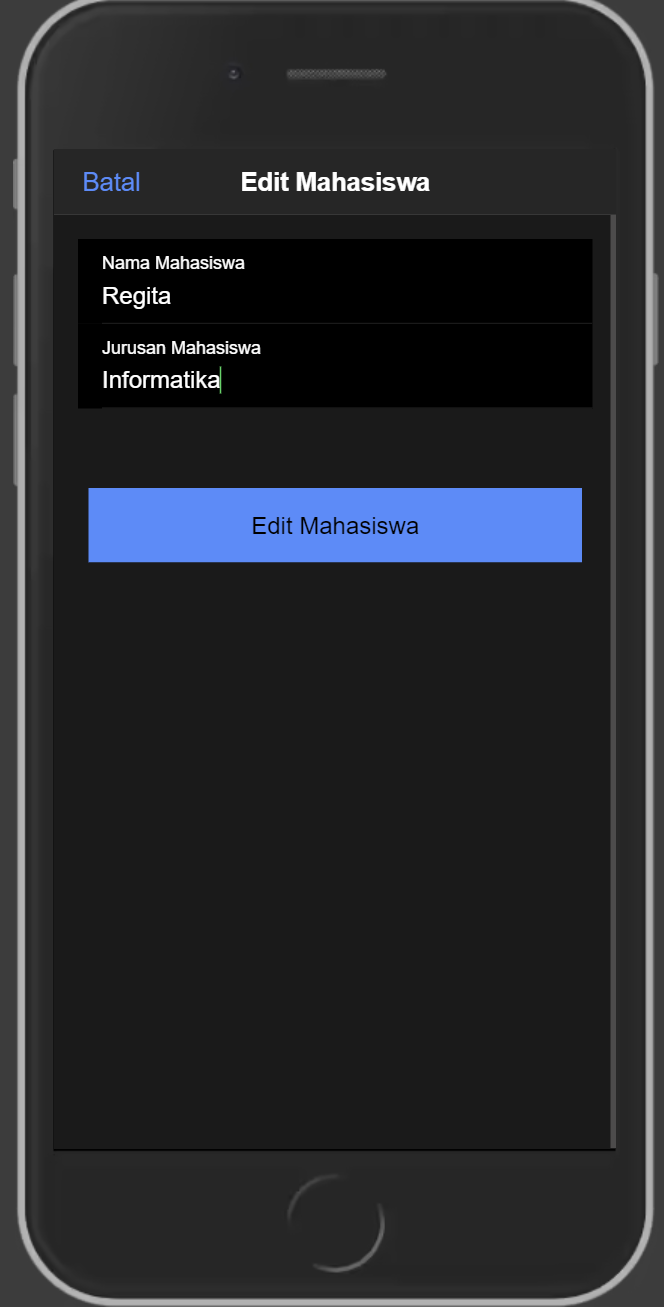
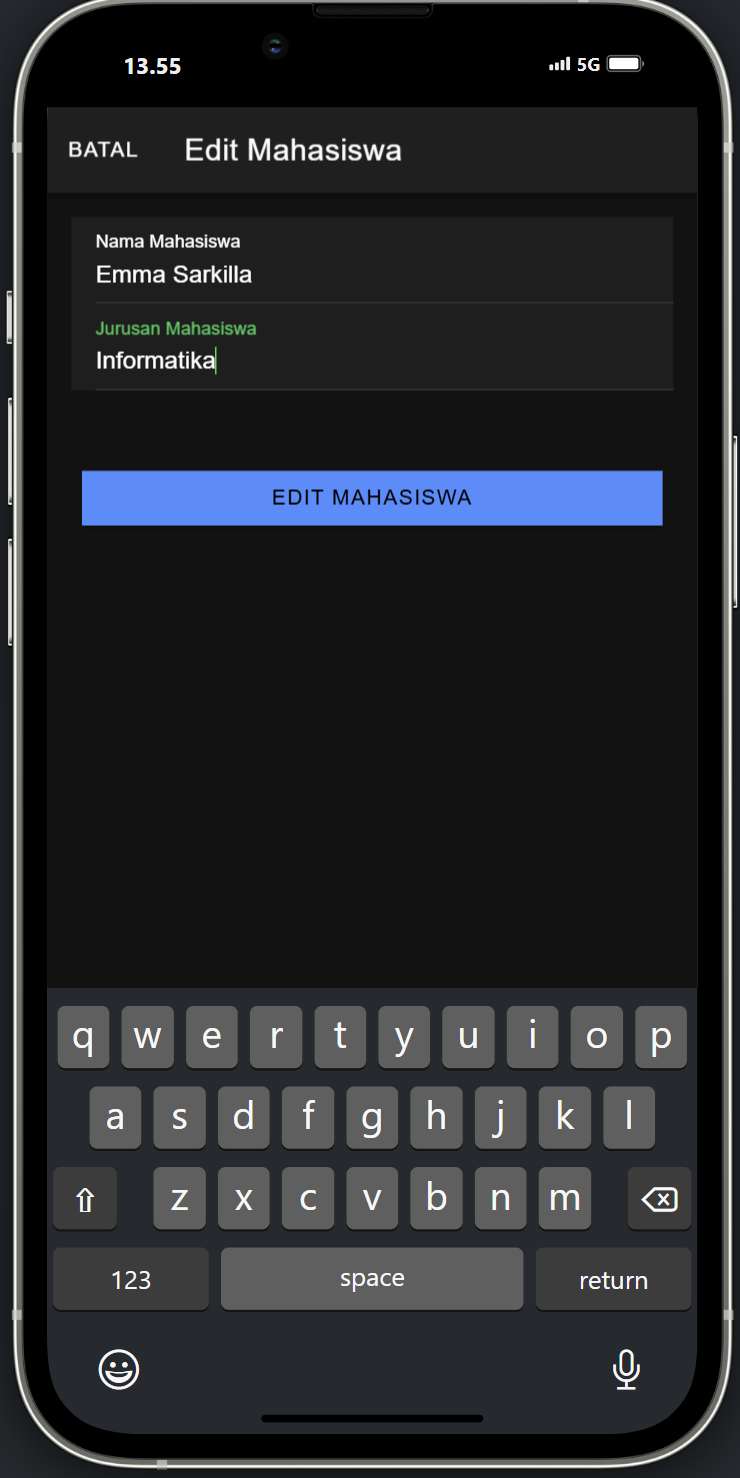
alert

diff --git a/src/app/mahasiswa/mahasiswa.page.html b/src/app/mahasiswa/mahasiswa.page.html
@@ -4,7 +4,6 @@
   </ion-toolbar>
 </ion-header>
 
-
 <ion-content [fullscreen]="true">
   <ion-header collapse="condense">
     <ion-toolbar>
@@ -12,86 +11,80 @@
     </ion-toolbar>
   </ion-header>
 
-  <!-- button tambah -->
-<ion-card>
-  <ion-button (click)="openModalTambah(true)" expand="block">Tambah Mahasiswa</ion-button>
-</ion-card>
-<!-- modal tambah -->
-<ion-modal [isOpen]="modalTambah">
-  <ng-template>
-    <ion-header>
-      <ion-toolbar>
-        <ion-buttons slot="start">
-          <ion-button (click)="cancel()">Batal</ion-button>
-        </ion-buttons>
-        <ion-title>Tambah Mahasiswa</ion-title>
-      </ion-toolbar>
-    </ion-header>
-    <ion-content class="ion-padding">
-      <ion-item>
-        <ion-input label="Nama Mahasiswa" labelPlacement="floating" required [(ngModel)]="nama"
-          placeholder="Masukkan Nama Mahasiswa" type="text">
-        </ion-input>
-      </ion-item>
-      <ion-item>
-        <ion-input label='Jurusan Mahasiswa' labelPlacement="floating" required [(ngModel)]="jurusan"
-          placeholder="Masukkan Jurusan Mahasiswa" type="text">
-        </ion-input>
-      </ion-item>
-      <ion-row>
-        <ion-col>
-          <ion-button type="button" (click)="tambahMahasiswa()" color="primary" shape="full" expand="block">Tambah
-            Mahasiswa
-          </ion-button>
-        </ion-col>
-      </ion-row>
-    </ion-content>
-  </ng-template>
-</ion-modal>
+  <ion-card>
+    <ion-button (click)="openModalTambah(true)" expand="block">Tambah Mahasiswa</ion-button>
+  </ion-card>
 
-<!-- ini untuk modal edit -->
-<ion-modal [isOpen]="modalEdit">
-  <ng-template>
-    <ion-header>
-      <ion-toolbar>
-        <ion-buttons slot="start">
-          <ion-button (click)="cancel()">Batal</ion-button>
-        </ion-buttons>
-        <ion-title>Edit Mahasiswa</ion-title>
-      </ion-toolbar>
-    </ion-header>
-    <ion-content class="ion-padding">
-      <ion-item>
-        <ion-input label="Nama Mahasiswa" labelPlacement="floating" required [(ngModel)]="nama"
-          placeholder="Masukkan Nama Mahasiswa" type="text">
-        </ion-input>
-      </ion-item>
-      <ion-item>
-        <ion-input label='Jurusan Mahasiswa' labelPlacement="floating" required [(ngModel)]="jurusan"
-          placeholder="Masukkan Jurusan Mahasiswa" type="text">
-        </ion-input>
-      </ion-item>
-      <ion-input required [(ngModel)]="id" type="hidden">
-      </ion-input>
-      <ion-row>
-        <ion-col>
-          <ion-button type="button" (click)="editMahasiswa()" color="primary" shape="full" expand="block">Edit
-            Mahasiswa
-          </ion-button>
-        </ion-col>
-      </ion-row>
-    </ion-content>
-  </ng-template>
-</ion-modal>
+  <ion-modal [isOpen]="modalTambah">
+    <ng-template let-modal>
+      <ion-header>
+        <ion-toolbar>
+          <ion-buttons slot="start">
+            <ion-button (click)="cancel()">Batal</ion-button>
+          </ion-buttons>
+          <ion-title>Tambah Mahasiswa</ion-title>
+        </ion-toolbar>
+      </ion-header>
+      <ion-content class="ion-padding">
+        <ion-item>
+          <ion-input placeholder="Masukkan Nama Mahasiswa" label="Nama Mahasiswa" labelPlacement="floating" required [(ngModel)]="nama"></ion-input>
+        </ion-item>
+        <ion-item>
+          <ion-input placeholder="Masukkan Jurusan Mahasiswa" label="Jurusan Mahasiswa" labelPlacement="floating" required [(ngModel)]="jurusan"></ion-input>
+        </ion-item>
+        <ion-row>
+          <ion-col>
+            <ion-button type="button" (click)="tambahMahasiswa()" color="primary" expand="block">Tambah Mahasiswa</ion-button>
+          </ion-col>
+        </ion-row>
+      </ion-content>
+    </ng-template>
+  </ion-modal>
+
+  <ion-modal [isOpen]="modalEdit">
+    <ng-template let-modal>
+      <ion-header>
+        <ion-toolbar>
+          <ion-buttons slot="start">
+            <ion-button (click)="cancel()">Batal</ion-button>
+          </ion-buttons>
+          <ion-title>Edit Mahasiswa</ion-title>
+        </ion-toolbar>
+      </ion-header>
+      <ion-content class="ion-padding">
+        <ion-item>
+          <ion-input placeholder="Masukkan Nama Mahasiswa" label="Nama Mahasiswa" labelPlacement="floating" required [(ngModel)]="nama"></ion-input>
+        </ion-item>
+        <ion-item>
+          <ion-input placeholder="Masukkan Jurusan Mahasiswa" label="Jurusan Mahasiswa" labelPlacement="floating" required [(ngModel)]="jurusan"></ion-input>
+        </ion-item>
+        <ion-row>
+          <ion-col>
+            <ion-button type="button" (click)="editMahasiswa()" color="primary" expand="block">Edit Mahasiswa</ion-button>
+          </ion-col>
+        </ion-row>
+      </ion-content>
+    </ng-template>
+  </ion-modal>
 
   <ion-card *ngFor="let item of dataMahasiswa">
-    <ion-item> 
-      <ion-button color="danger" slot="end" (click)="hapusMahasiswa(item.id)">Hapus</ion-button> 
+    <ion-item>
+      <ion-button color="danger" slot="end" (click)="hapusMahasiswa(item.id)">Hapus</ion-button>
       <ion-label>
-        {{item.nama}}
-        <p>{{item.jurusan}}</p> 
+        {{ item.nama }}
+        <p>{{ item.jurusan }}</p>
       </ion-label>
-      <ion-button expand="block" (click)="openModalEdit(true,item.id)">Edit</ion-button>
+      <ion-button expand="block" (click)="openModalEdit(true, item.id)">Edit</ion-button>
     </ion-item>
   </ion-card>
 </ion-content>
+
+<ion-alert
+  *ngIf="showAlert"
+  [isOpen]="showAlert"
+  [header]="alertHeader"
+  [message]="alertMessage"
+  [buttons]="['OK']"
+  (didDismiss)="showAlert = false">
+</ion-alert>
+

diff --git a/src/app/mahasiswa/mahasiswa.page.ts b/src/app/mahasiswa/mahasiswa.page.ts
@@ -1,6 +1,7 @@
 import { Component, OnInit } from '@angular/core';
 import { ApiService } from '../service/api.service';
 import { ModalController } from '@ionic/angular';
+import { AlertController } from '@ionic/angular';
 
 @Component({
   selector: 'app-mahasiswa',
@@ -10,7 +11,7 @@ import { ModalController } from '@ionic/angular';
 export class MahasiswaPage implements OnInit {
   dataMahasiswa: any;
 
-  constructor(private api: ApiService, private modal: ModalController) { }
+  constructor(private api: ApiService, private modal: ModalController, private alert: AlertController) { }
 
   ngOnInit() {
     this.getMahasiswa();
@@ -27,6 +28,11 @@ export class MahasiswaPage implements OnInit {
       },
     });
   }
+
+  showAlert = false;
+alertHeader: string = '';
+alertMessage: string = '';
+
 
   modalTambah: any;
 id: any;
@@ -53,42 +59,71 @@ cancel() {
   this.resetModal();
 }
 
+showSuccessAlert(header: string, message: string) {
+  this.alertHeader = header;
+  this.alertMessage = message;
+  this.showAlert = true; 
+}
+
 tambahMahasiswa() {
-  if (this.nama != '' && this.jurusan != '') {
+  if (this.nama !== '' && this.jurusan !== '') {
     let data = {
       nama: this.nama,
       jurusan: this.jurusan,
-    }
-    this.api.tambah(data, 'tambah.php')
-      .subscribe({
-        next: (hasil: any) => {
-          this.resetModal();
-          console.log('berhasil tambah mahasiswa');
-          this.getMahasiswa();
-          this.modalTambah = false;
-          this.modal.dismiss();
-        },
-        error: (err: any) => {
-          console.log('gagal tambah mahasiswa');
-        }
-      })
+    };
+    this.api.tambah(data, 'tambah.php').subscribe({
+      next: (hasil: any) => {
+        this.resetModal();
+        this.getMahasiswa();
+        this.modalTambah = false;
+        this.modal.dismiss();
+        this.showSuccessAlert('Tambah Data', 'Data berhasil ditambahkan');
+      },
+      error: (err: any) => {
+        console.log('gagal tambah mahasiswa');
+      },
+    });
   } else {
     console.log('gagal tambah mahasiswa karena masih ada data yg kosong');
   }
 }
 
+
 hapusMahasiswa(id: any) {
-  this.api.hapus(id,
-    'hapus.php?id=').subscribe({
-      next: (res: any) => {
-        console.log('sukses', res);
-        this.getMahasiswa();
-        console.log('berhasil hapus data');
+  this.confirmDelete(id);
+}
+
+async confirmDelete(id: any) {
+  const alert = await this.alert.create({
+    header: 'Konfirmasi Hapus',
+    message: 'Apakah Anda yakin ingin menghapus data ini?',
+    buttons: [
+      {
+        text: 'Batal',
+        role: 'cancel',
+        handler: () => {
+          console.log('Penghapusan dibatalkan');
+        },
       },
-      error: (error: any) => {
-        console.log('gagal');
-      }
-    })
+      {
+        text: 'Hapus',
+        role: 'destructive',
+        handler: () => {
+          this.api.hapus(id, 'hapus.php?id=').subscribe({
+            next: (res: any) => {
+              this.getMahasiswa();
+              this.showSuccessAlert('Hapus Data', 'Data berhasil dihapus');
+            },
+            error: (error: any) => {
+              console.log('gagal');
+            },
+          });
+        },
+      },
+    ],
+  });
+
+  await alert.present();
 }
 
 ambilMahasiswa(id: any) {
@@ -122,22 +157,20 @@ editMahasiswa() {
   let data = {
     id: this.id,
     nama: this.nama,
-    jurusan: this.jurusan
-  }
-  this.api.edit(data, 'edit.php')
-    .subscribe({
-      next: (hasil: any) => {
-        console.log(hasil);
-        this.resetModal();
-        this.getMahasiswa();
-        console.log('berhasil edit Mahasiswa');
-        this.modalEdit = false;
-        this.modal.dismiss();
-      },
-      error: (err: any) => {
-        console.log('gagal edit Mahasiswa');
-      }
-    })
+    jurusan: this.jurusan,
+  };
+  this.api.edit(data, 'edit.php').subscribe({
+    next: (hasil: any) => {
+      this.resetModal();
+      this.getMahasiswa();
+      this.showSuccessAlert('Edit Data', 'Data berhasil diubah');
+      this.modalEdit = false;
+      this.modal.dismiss();
+    },
+    error: (err: any) => {
+      console.log('gagal edit Mahasiswa');
+    },
+  });
 }
 
 

diff --git a/README.md b/README.md
@@ -2,29 +2,31 @@ Proses CRUD
 
 1. **Read Data**
 
-![View](view.png)
+![HomePage](viewpage.png)
 
 Method `getMahasiswa()` adalah fungsi yang dijalankan saat komponen dimuat pertama kali melalui `ngOnInit()` untuk mengambil data mahasiswa dari API `tampil.php` menggunakan `ApiService`. Dalam prosesnya, method ini mengirim permintaan GET ke `tampil.php` untuk memperoleh data mahasiswa yang tersedia di server. Jika permintaan berhasil, respons yang diterima disimpan dalam variabel `dataMahasiswa`, sehingga data tersebut bisa ditampilkan di halaman. Namun, jika permintaan mengalami kegagalan, pesan error akan dicatat di konsol untuk memudahkan debugging atau pemantauan masalah.
 
 2. **Tambah Data**
 
-![Create](tambah.png)
+![CreatePage](create.png)
 
-![ViewAfterCreate](viewtambah.png)
+![CreateSuccess](successcreate.png)
 
 Method `tambahMahasiswa()` digunakan untuk menambahkan data mahasiswa baru ke dalam sistem. Prosesnya dimulai dengan pengecekan apakah field `nama` dan `jurusan` sudah diisi; jika tidak, data tidak akan dikirim. Setelah validasi ini, dibuat objek `data` yang berisi `nama` dan `jurusan` yang diambil dari input pengguna. Objek ini kemudian dikirim sebagai permintaan POST ke endpoint `tambah.php` melalui `ApiService`. Jika penambahan data berhasil, beberapa tindakan dilakukan: form di-reset agar kosong kembali, data mahasiswa yang baru ditampilkan dimuat ulang, modal (dialog) ditutup, dan pesan sukses dicetak di konsol untuk memberi tahu bahwa proses berhasil. Namun, jika ada kesalahan dalam pengiriman atau jika field masih ada yang kosong, pesan error akan ditampilkan di konsol, memungkinkan pengguna atau pengembang untuk mengetahui ada kendala pada proses penambahan data.
 
 3. **Edit Data**
 
-![Edit](editpage.png)
+![EditPage](editpage.png)
 
-![ViewAfterEdit](viewafteredit.png)
+![SuccessEdit](editsuccess.png)
 
 Method `editMahasiswa()` digunakan untuk mengedit data mahasiswa yang sudah ada berdasarkan ID mahasiswa yang spesifik. Proses dimulai dengan pembuatan objek `data` yang berisi informasi `id`, `nama`, dan `jurusan`, yang diambil dari form yang telah diisi atau diperbarui oleh pengguna. Objek ini kemudian dikirim sebagai permintaan POST ke endpoint `edit.php` menggunakan `ApiService` untuk memperbarui data mahasiswa di server. Jika proses edit berhasil, beberapa langkah diambil: form di-reset agar kosong kembali, data mahasiswa yang telah diperbarui dimuat ulang di halaman, modal ditutup, dan pesan sukses ditampilkan di konsol untuk konfirmasi. Namun, jika proses gagal, pesan error akan dicatat di konsol untuk membantu dalam penanganan kesalahan atau debugging.
 
 4. **Hapus Data**
 
-![Delete](hapus.png)
+![Delete](confirmhapus.png)
+
+![AfterDelete](afterhapus.png)
 
 Method `hapusMahasiswa(id: any)` digunakan untuk menghapus data mahasiswa berdasarkan ID yang diberikan. Prosesnya dimulai dengan mengirimkan permintaan DELETE ke endpoint `hapus.php?id=` disertai ID mahasiswa yang ingin dihapus, menggunakan `ApiService`. Jika penghapusan berhasil, method ini akan memuat ulang data mahasiswa untuk memperbarui tampilan agar mencerminkan penghapusan tersebut, dan pesan sukses dicetak di konsol sebagai tanda bahwa operasi berhasil. Namun, jika terjadi kegagalan selama proses ini, pesan error akan ditampilkan di konsol untuk memberikan informasi mengenai adanya kesalahan atau masalah dalam proses penghapusan data.
 
